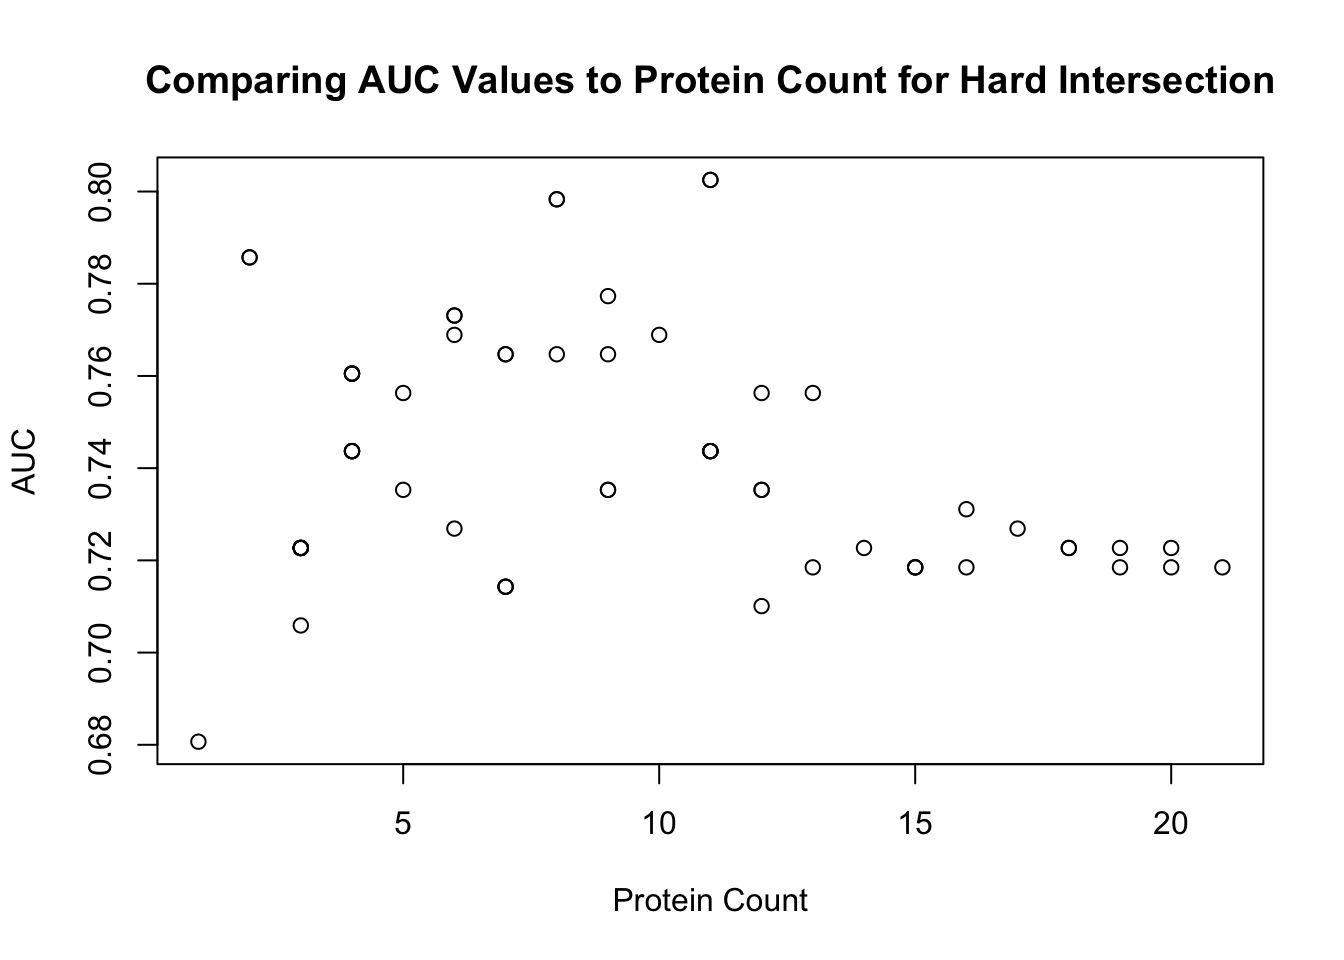
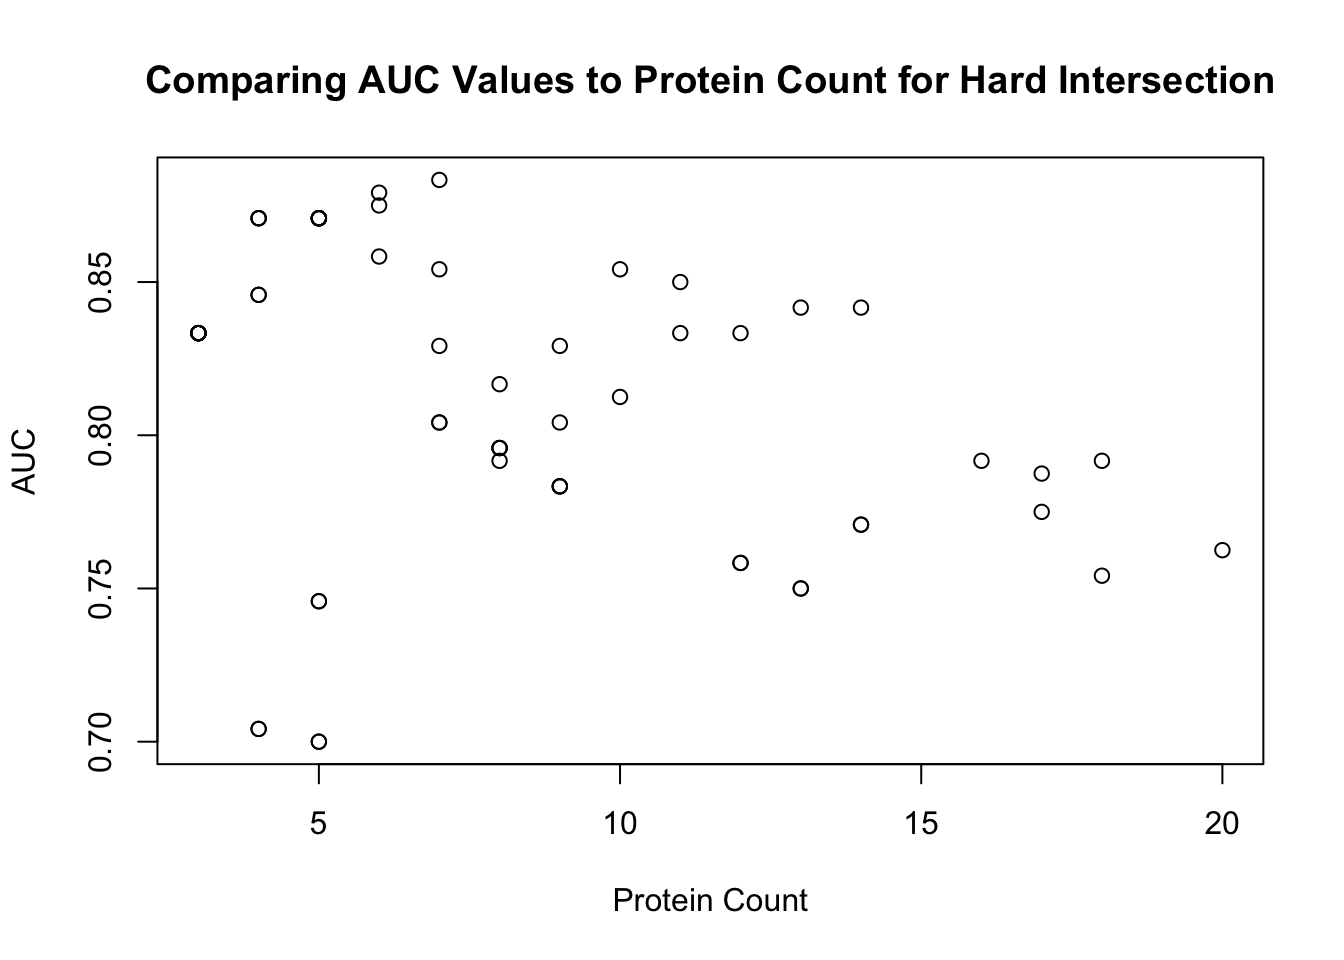
Updated report for Methodological variations

diff --git a/results/report.html b/results/report.html
@@ -83,10 +83,7 @@ ul.task-list li input[type="checkbox"] {
 
 </header>
 
-<<<<<<< HEAD
-=======
 
->>>>>>> 0c8cdd706baa67019bf3585ab47202f9e9108495
 <section id="abstract" class="level2">
 <h2 class="anchored" data-anchor-id="abstract">Abstract</h2>
 <p>In this reproduced analysis, we utilized the existing database of serum data from Hewitson et al.&nbsp;(2001) which proposed a panel proteins that were meant to distinguish boys with autism spectrum disorder (ASD) and those that were typically developing (TD). The data consisted of 154 subjects and 1,317 proteins. We reproduced a simplified workflow of the published analysis, and made multiple modifications in the methodology to examine the sensitivity the accuracy classification as we made those changes. We noted that the log-transformation applied to the data centered the raw protein values to zero, which were heavily right-skewed. Subjects with their number of outliers were compared to each other by group, and found that there were a handful that were outliers from their group, but there was not a large enough number of subjects to skew one group or another. Modifications to the methodology which included training models with a training partition of the data, choosing a higher selection of predictive proteins, and using a fuzzy intersection rather than a hard intersection, yielded a lower AUROC score compared to the original simplified analysis. Combinations of methods were attempted to find a better accuracy classification score, and discovered that a combination of using training partitioned data for the selection procedure, and fuzzy intersection led to a similar panel of 5 proteins which had the same classification accuracy (0.8387097). Without the split data and with a hard intersection, a panel of 7 proteins were created with a very optimistic classification accuracy (0.9354839).</p>
@@ -111,23 +108,6 @@ ul.task-list li input[type="checkbox"] {
 <h3 class="anchored" data-anchor-id="methodological-variations">Methodological variations</h3>
 <p>To see how the model could be improved, we experimented with several adjustments and compared the results of several variations of the model to find what worked best. The first adjustment to the model we made was to partition the data into a training and test data set before any processing. In the original model, this step was made after the optimal set of proteins was selected, meaning that the test sample influenced this decision. Moving this step to the start and basing all calculations and decisions solely on the training data set ensures that this does not happen. While this resulted in a decrease in the model’s accuracy, specificity, sensitivity, and ROC AUC, doing this prevents the protein selection to be biased to include the data in the test data sets and ensures the resulting metric are not overly optimistic.</p>
 <p>We also adjusted the number of proteins chosen for analysis. The proteins were selected through two separate methods in the original model, and later combined using the intersection of both selections. For our new model, we tested different combinations of the number of proteins being selected from each model, like five from the. On top of that, each combination of proteins was tested with both with a hard intersection, like the original model where only proteins from both selections are used, and a fuzzy intersection, which uses all the proteins selected. Some graphical results of this experimentation are shown below.</p>
-<<<<<<< HEAD
-<div class="cell" data-hash="report_cache/html/unnamed-chunk-2_c382e2645fd9545f16a59db013840dea">
-<div class="cell-output-display">
-<p><img src="report_files/figure-html/unnamed-chunk-2-1.png" class="img-fluid" width="672"></p>
-</div>
-<div class="cell-output-display">
-<p><img src="report_files/figure-html/unnamed-chunk-2-2.png" class="img-fluid" width="672"></p>
-</div>
-<div class="cell-output-display">
-<p><img src="report_files/figure-html/unnamed-chunk-2-3.png" class="img-fluid" width="672"></p>
-</div>
-</div>
-<p>Increasing the number generally saw an increase in&nbsp; all metrics to an extent</p>
-<p>through testing out several models, we found that excessive amounts of proteins ended up hurting the model overall. The same effect seemed to occur when there were too few proteins.</p>
-<p>Models with around 20 for both categories around 10 if hard intersection and&nbsp;</p>
-<p><br>
-=======
 <div class="cell">
 <div class="cell-output-display">
 <table class="caption-top table table-sm table-striped small">
@@ -311,6 +291,70 @@ ul.task-list li input[type="checkbox"] {
 <td style="text-align: right;">7</td>
 <td style="text-align: left;">Hard</td>
 </tr>
+<tr class="odd">
+<td style="text-align: left;">sensitivity</td>
+<td style="text-align: right;">0.8125000</td>
+<td style="text-align: right;">10</td>
+<td style="text-align: right;">35</td>
+<td style="text-align: right;">6</td>
+<td style="text-align: left;">Hard</td>
+</tr>
+<tr class="even">
+<td style="text-align: left;">specificity</td>
+<td style="text-align: right;">0.8666667</td>
+<td style="text-align: right;">10</td>
+<td style="text-align: right;">35</td>
+<td style="text-align: right;">6</td>
+<td style="text-align: left;">Hard</td>
+</tr>
+<tr class="odd">
+<td style="text-align: left;">accuracy</td>
+<td style="text-align: right;">0.8387097</td>
+<td style="text-align: right;">10</td>
+<td style="text-align: right;">35</td>
+<td style="text-align: right;">6</td>
+<td style="text-align: left;">Hard</td>
+</tr>
+<tr class="even">
+<td style="text-align: left;">roc_auc</td>
+<td style="text-align: right;">0.8791667</td>
+<td style="text-align: right;">10</td>
+<td style="text-align: right;">35</td>
+<td style="text-align: right;">6</td>
+<td style="text-align: left;">Hard</td>
+</tr>
+<tr class="odd">
+<td style="text-align: left;">sensitivity</td>
+<td style="text-align: right;">0.6875000</td>
+<td style="text-align: right;">15</td>
+<td style="text-align: right;">10</td>
+<td style="text-align: right;">21</td>
+<td style="text-align: left;">Fuzzy</td>
+</tr>
+<tr class="even">
+<td style="text-align: left;">specificity</td>
+<td style="text-align: right;">0.8666667</td>
+<td style="text-align: right;">15</td>
+<td style="text-align: right;">10</td>
+<td style="text-align: right;">21</td>
+<td style="text-align: left;">Fuzzy</td>
+</tr>
+<tr class="odd">
+<td style="text-align: left;">accuracy</td>
+<td style="text-align: right;">0.7741935</td>
+<td style="text-align: right;">15</td>
+<td style="text-align: right;">10</td>
+<td style="text-align: right;">21</td>
+<td style="text-align: left;">Fuzzy</td>
+</tr>
+<tr class="even">
+<td style="text-align: left;">roc_auc</td>
+<td style="text-align: right;">0.8750000</td>
+<td style="text-align: right;">15</td>
+<td style="text-align: right;">10</td>
+<td style="text-align: right;">21</td>
+<td style="text-align: left;">Fuzzy</td>
+</tr>
 </tbody>
 </table>
 </div>
@@ -337,26 +381,11 @@ ul.task-list li input[type="checkbox"] {
 </div>
 </div>
 <p>Through testing out several models, we found that excessive amounts of proteins ended up hurting the model overall. The same effect seemed to occur when there were too few proteins. The model that performed the best overall .<br>
->>>>>>> 0c8cdd706baa67019bf3585ab47202f9e9108495
 On average, models with hard intersections outperformed those with fuzzy intersections for all metrics (accuracy, specificity, sensitivity, and ROC AUC). It is important to note that some fuzzy intersection models still managed to do better than the vast majority of other models.</p>
 </section>
 <section id="improved-classifier" class="level3">
 <h3 class="anchored" data-anchor-id="improved-classifier">Improved classifier</h3>
-<<<<<<< HEAD
-<p>To find an improved classifier which has a simpler panel to achieve comparable or improved accuracy, we experimented with split data, fuzzy intersection, and selection of 10 predictive proteins. We split our analysis into two parts, trimmed and untrimmed data. With trimmed data, our classifier could only achieve a panel of 5 proteins with the same accuracy score as the original analysis which was 0.8387097. Without split data and with a hard intersection, the next best accuracy score achieved was 0.9354839 with a panel of 7 proteins, which is significantly higher than the original. However, as established in examining the methodological variations, models without the split data provided highly optimistic accuracy scores which should warrant suspicion of the improvement. Therefore, the best panel achieved from spliting data and using a fuzzy intersection. could not simplify further from 5 proteins and achieve a better accuracy score than the original .</p>
-<div class="quarto-figure quarto-figure-center">
-<figure class="figure">
-<p><img src="figures/trimmed_top10.png" class="img-fluid figure-img" style="width:30.0%"></p>
-</figure>
-</div>
-<div class="quarto-figure quarto-figure-center">
-<figure class="figure">
-<p><img src="figures/untrimmed_top10.png" class="img-fluid figure-img" style="width:30.0%"></p>
-</figure>
-</div>
-=======
 <p>With the combinations of split data, fuzzy intersection, and a selection of 10 predictive proteins, our classifier could only achieve a panel of 5 proteins with the same accuracy score as the original analysis which was 0.8387097. Without split data and with a hard intersection, the next best accuracy score achieved was 0.9354839 with a panel of 7 proteins, which is significantly higher than the original. However, as established in examining the methodological variations, models without the split data provided highly optimistic accuracy scores which should warrant suspicion of the improvement. Therefore, the best panel achieved from splitting data and using a fuzzy intersection. could not simplify further from 5 proteins and achieve a better accuracy score than the original .</p>
->>>>>>> 0c8cdd706baa67019bf3585ab47202f9e9108495
 </section>
 </section>
 
